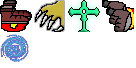
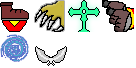
Bugfixes & bonus remake

Changed region(s): [[0.0, 0.0, 0.2353, 0.4706], [0.2353, 0.6765, 0.5, 0.9706], [0.5, 0.0294, 0.7353, 0.4706]]

diff --git a/app/js/app.js b/app/js/app.js
@@ -813,7 +813,8 @@
 
     Player.prototype.spawn = function() {
       this.shape.setX(336);
-      return this.shape.setY(stage.getY() * -1 - 224);
+      this.shape.setY(stage.getY() * -1 - 224);
+      return this.shape.setHeight(this.height);
     };
 
     Player.prototype.reset = function() {
@@ -1174,10 +1175,10 @@
     };
 
     ControllablePlayer.prototype.takeBonus = function(bonus) {
-      bonusManager.getBonus(bonus.getName().name);
-      bonus.destroy();
-      dynamicEntities.draw();
-      return networkManager.sendBonusTaken(bonus.getId());
+      if (bonusManager.getBonus(bonus.getName().name)) {
+        bonus.destroy();
+        return networkManager.sendBonusTaken(bonus.getId());
+      }
     };
 
     ControllablePlayer.prototype.changeAnimation = function(animation) {
@@ -1252,8 +1253,16 @@
         this.alive = false;
         contentLoader.play('death');
         new Effect(this.shape.getX() - 16, this.shape.getY(), SquareEnum.SMALL, 'blood', true);
-        return networkManager.sendDie();
+        networkManager.sendDie();
+        return bonusManager.resetBonuses();
       }
+    };
+
+    ControllablePlayer.prototype.addJumpHeight = function(height) {
+      this.jumpHeight += height;
+      this.jumpMinAcceleration = 0.1;
+      this.jumpMaxAcceleration += height / 200;
+      return this.jumpDeceleration += height / 2000;
     };
 
     return ControllablePlayer;
@@ -1845,8 +1854,8 @@
     ],
     doubleJumpBonus: [
       {
-        x: 0,
-        y: 0,
+        x: 34,
+        y: 34,
         width: 32,
         height: 32
       }
@@ -2241,38 +2250,72 @@
         }, {
           name: 'speedBonus',
           attribute: 'speed',
-          value: 0.015
+          value: 0.03,
+          max: 3
         }, {
           name: 'jumpHeightBonus',
           attribute: 'jumpHeight',
-          value: 3
+          value: 18,
+          max: 3
         }
       ];
-      this.timers = [];
+      this.playerBonuses = {};
+      this.resetBonuses();
     }
 
+    BonusManager.prototype.resetBonuses = function() {
+      return this.playerBonuses = {
+        jumpHeightBonus: 0,
+        speedBonus: 0
+      };
+    };
+
     BonusManager.prototype.getBonus = function(bonusName) {
-      var bonus, _i, _len, _ref, _results;
-      contentLoader.play('pickup');
+      var bonus;
+      bonus = this.findBonus(bonusName);
+      if (this.canTake(bonus)) {
+        contentLoader.play('pickup');
+        this.addBonus(bonus);
+        return true;
+      } else {
+        return false;
+      }
+    };
+
+    BonusManager.prototype.canTake = function(bonus) {
+      if (bonus.max !== void 0) {
+        switch (bonus.attribute) {
+          case "speed":
+            return this.playerBonuses.speedBonus < bonus.max;
+          case "jumpHeight":
+            return this.playerBonuses.jumpHeightBonus < bonus.max;
+          default:
+            return false;
+        }
+      } else {
+        return true;
+      }
+    };
+
+    BonusManager.prototype.findBonus = function(bonusName) {
+      var bonus, _i, _len, _ref;
       _ref = this.bonuses;
-      _results = [];
       for (_i = 0, _len = _ref.length; _i < _len; _i++) {
         bonus = _ref[_i];
         if (bonusName === bonus.name) {
-          _results.push(this.addBonus(bonus));
-        } else {
-          _results.push(void 0);
+          return bonus;
         }
       }
-      return _results;
     };
 
     BonusManager.prototype.addBonus = function(bonus) {
       switch (bonus.attribute) {
         case "speed":
-          return player.speed += bonus.value;
+          player.speed += bonus.value;
+          return this.playerBonuses.speedBonus++;
         case "jumpHeight":
-          return player.jumpHeight += bonus.value;
+          player.addJumpHeight(bonus.value);
+          return this.playerBonuses.jumpHeightBonus++;
         case "jumpCount":
           return player.availableDoubleJump += bonus.value;
         case "grab":
@@ -2393,9 +2436,7 @@
           if (collide) {
             cube.setY(collide.getY() - cube.getHeight());
             obj = cube.getName();
-            if (obj.type !== 'bonus') {
-              obj.falling = false;
-            }
+            obj.falling = false;
             if (obj.child !== void 0) {
               _ref = obj.child;
               for (_i = 0, _len = _ref.length; _i < _len; _i++) {
@@ -2946,11 +2987,11 @@
       if (text !== this.level.getText()) {
         this.level.setText(text);
       }
-      text = 'Jump : ' + Math.floor(player.jumpHeight / 32 * 100) / 100;
+      text = 'Jump : ' + bonusManager.playerBonuses.jumpHeightBonus + '/' + bonusManager.bonuses[4].max;
       if (text !== this.jump.getText()) {
         this.jump.setText(text);
       }
-      text = 'Speed : ' + Math.floor(player.speed / config.player.speed * 100) + "%";
+      text = 'Speed : ' + bonusManager.playerBonuses.speedBonus + '/' + bonusManager.bonuses[3].max;
       if (text !== this.speed.getText()) {
         this.speed.setText(text);
       }
